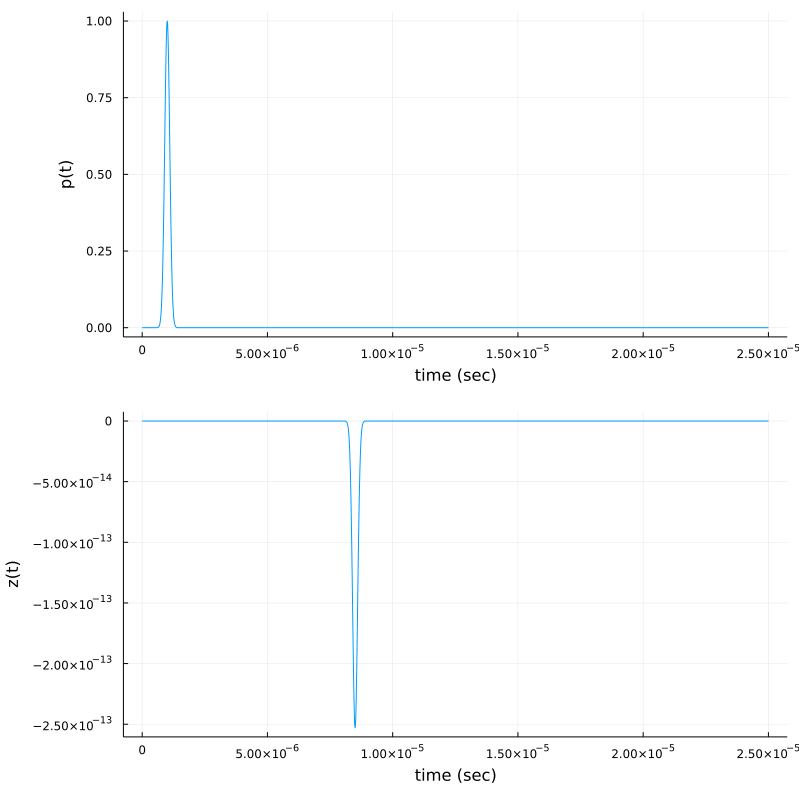
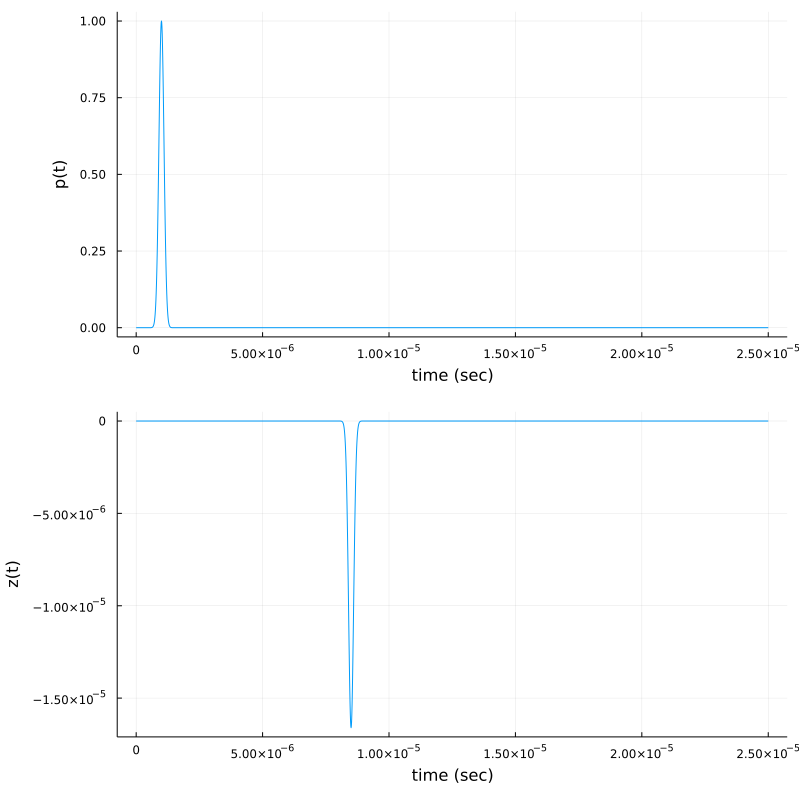
update LTIDir scenario A plots

diff --git a/docs/src/directionalLTI/dirLTIsource.md b/docs/src/directionalLTI/dirLTIsource.md
@@ -21,7 +21,7 @@
 
 The LTI impulse response from $\mathbf{p}_\mathrm{s}$ to  $\bm{\xi}$ is given by
 
-$\mathsf{h}(\bm{\xi},t;\,{\mathbf{p}_\mathrm{s},\mathbf{b}_\mathrm{s}}) = \mathrm{D}_\mathrm{s}\left(\bm{\xi};\,{\mathbf{p}_\mathrm{s},\mathbf{b}_\mathrm{s}}\right)
+$\mathsf{h}(\bm{\xi},t;\,{\mathbf{p}_\mathrm{s},\mathbf{b}_\mathrm{s},\mathrm{G}_\mathrm{s}(\cdot)}) = \mathrm{D}_\mathrm{s}\left(\bm{\xi};\,{\mathbf{p}_\mathrm{s},\mathbf{b}_\mathrm{s}}\right)
 \mathsf{A}\left(\frac{\|\bm{\xi}-\mathbf{p}_\mathrm{s}\|}
 {\mathrm{c}}\right) \delta\left(t-\frac{\|\bm{\xi}-\mathbf{p}_\mathrm{s}\|}{\mathrm{c}}\right),$
 
@@ -31,9 +31,10 @@ $\mathrm{D}_\mathrm{s}\left(\bm{\xi};\,\textcolor{myLightSlateGrey}
 {\mathbf{p}_\mathrm{s},\mathbf{b}_\mathrm{s}}\right)= \mathrm{G}_\mathrm{s}
 \left(∠[\,\mathbf{b}\,,\,\bm{\xi}-\mathbf{p}_\mathrm{s}\,]\right).$
 
+The signal observed at position $\bm{\xi}$ and time $t$ due to the source emitting from position $\mathbf{p}_\mathrm{s}$ is given as
 ```math
 \begin{aligned}
-\mathsf{q}(\bm{\xi},t)  &= \mathsf{p}(t) \overset{t}{*} \mathsf{h}(\bm{\xi},t;\,{\mathbf{p}_\mathrm{s},\mathbf{b}_\mathrm{s}}) \\
+\mathsf{q}(\bm{\xi},t)  &= \mathsf{p}(t) \overset{t}{*} \mathsf{h}(\bm{\xi},t;\,{\mathbf{p}_\mathrm{s},\mathbf{b}_\mathrm{s},\mathrm{G}_\mathrm{s}(\cdot)}) \\
                &=\mathrm{D}_\mathrm{s}\left(\bm{\xi};\,{\mathbf{p}_\mathrm{s},\mathbf{b}_\mathrm{s}}\right)
                \mathsf{A}\left(\frac{\|\bm{\xi}-\mathbf{p}_\mathrm{s}\|}
                {\mathrm{c}}\right) \mathsf{p}\left(t-\frac{\|\bm{\xi}-\mathbf{p}_\mathrm{s}\|}{\mathrm{c}}\right).
@@ -46,7 +47,7 @@ $\mathsf{r}(\bm{\xi},t) = \mathsf{f}(\bm{\xi}) \mathsf{q}(\bm{\xi},t).$
 
 The LTI impulse response from an arbitrary position $\bm{\xi}$ to the receiver at position $\mathbf{p}_\mathrm{r}$ is given by
 
-$\mathsf{g}(\bm{\xi},t;\,{\mathbf{p}_\mathrm{r},\mathbf{b}_\mathrm{r}}) = \mathrm{D}_\mathrm{r}\left(\bm{\xi};\,{\mathbf{p}_\mathrm{r},\mathbf{b}_\mathrm{r}}\right) \mathsf{A}\left(\frac{\|\mathbf{p}_\mathrm{r}-\bm{\xi}\|}{\mathrm{c}}\right) \delta\left(t-\frac{\|\mathbf{p}_\mathrm{r}-\bm{\xi}\|}{\mathrm{c}}\right).$
+$\mathsf{g}(\bm{\xi},t;\,{\mathbf{p}_\mathrm{r},\mathbf{b}_\mathrm{r},\mathrm{G}_\mathrm{r}(\cdot)}) = \mathrm{D}_\mathrm{r}\left(\bm{\xi};\,{\mathbf{p}_\mathrm{r},\mathbf{b}_\mathrm{r}}\right) \mathsf{A}\left(\frac{\|\mathbf{p}_\mathrm{r}-\bm{\xi}\|}{\mathrm{c}}\right) \delta\left(t-\frac{\|\mathbf{p}_\mathrm{r}-\bm{\xi}\|}{\mathrm{c}}\right).$
 
 where $\mathrm{D}_\mathrm{r}\left(\bm{\xi};\,{\mathbf{p}_\mathrm{r},\mathbf{b}_\mathrm{r}}\right)$ is the directional gain defined by 
 
@@ -59,7 +60,7 @@ position $\bm{\xi}$ is given by
 
 ```math
 \begin{aligned}
-\mathsf{\psi}(\bm{\xi},t) &= \mathsf{r}(\bm{\xi},t) \overset{t}{*} \mathsf{g}\big(\bm{\xi},t;\,{\mathbf{p}_\mathrm{r},\mathbf{b}_\mathrm{r}}\big) \\
+\mathsf{\psi}(\bm{\xi},t) &= \mathsf{r}(\bm{\xi},t) \overset{t}{*} \mathsf{g}\big(\bm{\xi},t;\,{\mathbf{p}_\mathrm{r},\mathbf{b}_\mathrm{r},\mathrm{G}_\mathrm{s}(\cdot)}\big) \\
                  &= \mathrm{D}_\mathrm{r}\left(\bm{\xi};\,{\mathbf{p}_\mathrm{r},\mathbf{b}_\mathrm{r}}\right)
                  \mathsf{A}\left(\frac{\|\mathbf{p}_\mathrm{r}-\bm{\xi}\|}{\mathrm{c}}\right) \mathsf{r}\left(\bm{\xi},t-\frac{\|\mathbf{p}_\mathrm{r}-\bm{\xi}\|}{\mathrm{c}}\right).
 \end{aligned}
@@ -98,9 +99,9 @@ $\mathsf{r}(\bm{\xi},t) = \mathsf{\alpha}_0 \delta(\bm{\xi} - \bm{\xi}_0)
 Finally, the closed form expression of the observed signal, $\mathsf{z}(t)$
 with $(𝐩ₛ=𝐩ᵣ)$ is given by
 
-$\mathsf{z}(t) = \mathsf{\alpha}_0 \mathrm{D}^2_
-\mathrm{r}\left(\bm{\xi}_0;\,{\mathbf{p}_\mathrm{r},
-\mathbf{b}_\mathrm{r}}\right)\mathsf{A}^2
+$\mathsf{z}(t) = \mathsf{\alpha}_0 \mathrm{D}_
+\mathrm{s}\left(\bm{\xi}_0;\,{\mathbf{p}_\mathrm{r},
+\mathbf{b}_\mathrm{s}}\right)\mathsf{A}^2
 \left(\frac{\|\mathbf{p}_\mathrm{r}-\bm{\xi}_0\|}
 {\mathrm{c}}\right)\mathsf{p}\left(t -2\frac{\|\mathbf{p}_\mathrm{r}-\bm{\xi}_0\|}{\mathrm{c}}\right).$
 
@@ -115,12 +116,13 @@ p(t) = δn(t-tₚ,1.0e-07)
 G(θ) = 𝒩ᵤ(θ, μ=0.0, σ=π/6)
 q = LTIsourceDTI(𝐩ₛ,p,𝐛,G)
 α₀ = -0.7; 𝛏₀ = [3.75e-06c,0.0]
-r = pointReflector(𝛏₀,α₀,q)
-z = LTIreceiverDTI([r],𝐩ᵣ,𝐛,G)
+α₁ = -0.7; 𝛏₁ = [-3.75e-06c,0.0]
+r = pointReflector([𝛏₀,𝛏₁],[α₀,α₁],[q])
+z = LTIreceiverO(r,𝐩ᵣ)
 t=0.0:1.0e-08:25.0e-06
 p1 = plot(t,p, xlab="time (sec)", ylab="p(t)", legend=:false)
 p2 = plot( t, z(t), xlab="time (sec)", ylab="z(t)", legend=:false)
-plot(p1,p2,layout=(2,1))
+plot(p1,p2,layout=(2,1),size=(800,800))
 ```
 ![](https://raw.githubusercontent.com/NMSU-ISA/LTVsystems/main/docs/src/assets/scenarioA_LTIDirsignal.png)
 
@@ -131,7 +133,7 @@ Given the scenario A assumptions, we obtained the received signal, $\mathsf{z}(t
 
 $\mathsf{p}(t)=δ(t-\mathrm{t_p})$ 
 
-$\hat{\mathsf{f}}(\bm{\xi}) = \dfrac{\mathsf{z}\left(\mathrm{t_p}+\frac{2\|\bm{\xi}-\mathbf{p}_\mathrm{r}\|}{\mathrm{c}}\right)\mathrm{D}^2_\mathrm{s}\left(\bm{\xi};\,{\mathbf{p}_\mathrm{s},\mathbf{b}_\mathrm{r}}\right)}
+$\hat{\mathsf{f}}(\bm{\xi}) = \dfrac{\mathsf{z}\left(\mathrm{t_p}+\frac{2\|\bm{\xi}-\mathbf{p}_\mathrm{r}\|}{\mathrm{c}}\right)\mathrm{D}_\mathrm{s}\left(\bm{\xi};\,{\mathbf{p}_\mathrm{s},\mathbf{b}_\mathrm{r}}\right)}
 {\mathsf{A}^2\big(\frac{\|\bm{\xi}-\mathbf{p}_\mathrm{r}\|}{\mathrm{c}}\big) }
 .$
 
@@ -146,10 +148,11 @@ p(t) = δn(t-tₚ,1.0e-07)
 G(θ) = 𝒩ᵤ(θ, μ=0.0, σ=π/6)
 q = LTIsourceDTI(𝐩ₛ,p,𝐛,G)
 α₀ = -0.7; 𝛏₀ = [3.75e-06c,0.0]
-r = pointReflector(𝛏₀,α₀,q)
-z = LTIreceiverDTI([r],𝐩ᵣ,𝐛,G)
+α₁ = -0.7; 𝛏₁ = [-3.75e-06c,0.0]
+r = pointReflector([𝛏₀,𝛏₁],[α₀,α₁],[q])
+z = LTIreceiverO(r,𝐩ᵣ)
 D(ξ::Vector{Float64}) = G(angleBetween(𝐛, ξ.-𝐩ₛ))
-f(ξ::Vector{Float64}) = (z(tₚ+ 2(norm(ξ-𝐩ₛ))/c).*(D(ξ::Vector{Float64}))^2)/(A(norm(ξ-𝐩ₛ)/c))^2
+f(ξ::Vector{Float64}) = (z(tₚ+ 2(norm(ξ-𝐩ₛ))/c).*D(ξ::Vector{Float64}))/(A(norm(ξ-𝐩ₛ)/c))^2
 inversePlot2D([q],[r],[z],f)                        
 ```
 ![](https://raw.githubusercontent.com/NMSU-ISA/LTVsystems/main/docs/src/assets/scenarioA_DirTIsimulation.png)
